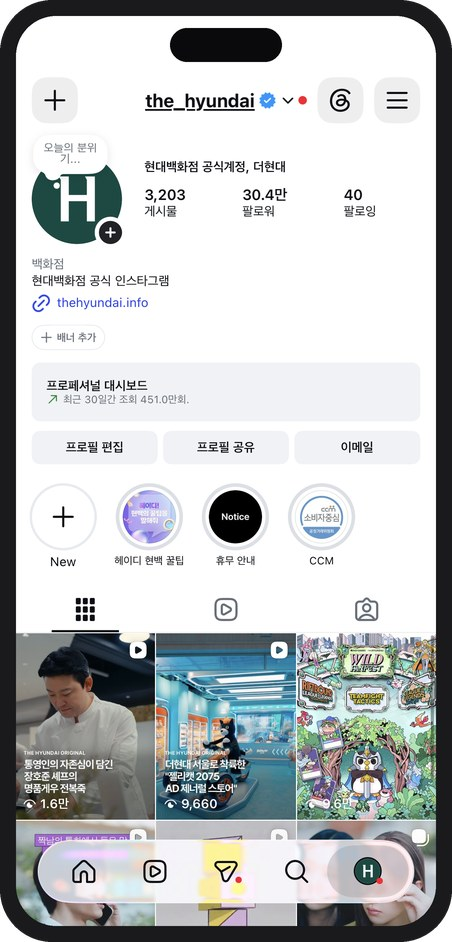
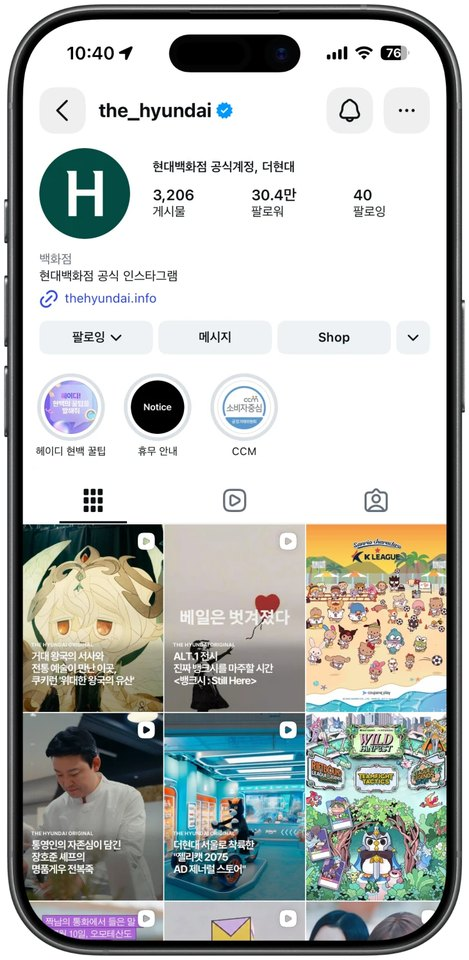
feat: 인스타 4계정 채널 목업 반영 — 공식 갱신 + 도시매뉴얼·에딧뎁트·와지트 신규
사용자 제공 아이폰 목업 4장을 흰 배경 합성·여백 트림·높이 960 통일로 최적화
(각 ~90-110KB). media.js 서브 계정 3종에 visual 한 줄씩 추가 — 우측 열 자동 배치.

Claude-Session: https://claude.ai/code/session_01W5oixKkCxd3dU1v4zre8Mn

diff --git a/src/data/media.js b/src/data/media.js
@@ -213,14 +213,17 @@ export const MEDIA = [
      "비고":"동일 소재 페이스북 미러링 · 필요시 도달·클릭 광고 집행 · 지점 계정과 콜랍스 공동게시(CO-WORK)"}},
   {group:"자사 매체", cat:"언드 미디어", name:"인스타그램 · 도시매뉴얼 (dosi.manual)", lead:"D-20", verified:true,
    target:"본사 운영 서브 콘텐츠 계정 — 도시·라이프스타일 큐레이션. 제작 규격은 대표계정과 동일.",
+   visual:"insta-dosimanual.jpg",
    slots:IG_SLOTS,
    extra:{"담당":"노규빈 선임 (정) · 정소미 선임 (부)","비고":"세부 지표·발행 라인업은 매체 모니터링 탭(본사 그룹) 참조"}},
   {group:"자사 매체", cat:"언드 미디어", name:"인스타그램 · 에딧뎁트 (edit.dept)", lead:"D-20", verified:true,
    target:"본사 운영 서브 콘텐츠 계정 — 에디토리얼·큐레이션. 제작 규격은 대표계정과 동일.",
+   visual:"insta-editdept.jpg",
    slots:IG_SLOTS,
    extra:{"담당":"노규빈 선임 (정) · 정소미 선임 (부)","비고":"세부 지표는 매체 모니터링 탭(본사 그룹) 참조"}},
   {group:"자사 매체", cat:"언드 미디어", name:"인스타그램 · 와지트 (wazit_wine)", lead:"별도 협의", verified:true,
    target:"와인 니치 콘텐츠 계정 — 소믈리에 화자. ※ 주류 콘텐츠 — 표현 검수 필수. 콘텐츠 개요는 아래 '와지트' 항목 참조.",
+   visual:"insta-wazit.jpg",
    slots:IG_SLOTS,
    extra:{"담당":"엄혜원 선임 (정) · 김상수 책임 (부)","금지사항":"주류 관련 표현·이미지 검수 필수 (brand-guard 기준)","비고":"인스타그램·스포티파이 동시 운영 · 세부 지표는 매체 모니터링 탭 참조"}},
   {group:"자사 매체", cat:"언드 미디어", name:"유튜브 (현대백화점 THE HYUNDAI)", lead:"D-30", verified:true,

diff --git a/CLAUDE.md b/CLAUDE.md
@@ -43,6 +43,8 @@
   목업)은 **본문 우측 열 고정 배치** ('26.7 레이아웃 변경 — 상단 통짜가 스펙을 밀어내
   사이니지 지면 카드와 같은 우측 배치로, 모바일은 본문 위 유지. 새 매체도 media.visual에
   파일명 한 줄이면 자동 우측). 자산 확보 시 파일 넣고 한 줄 지정.
+  인스타 4계정 목업 적용 완료('26.7.27 — 공식 갱신 + 도시매뉴얼·에딧뎁트·와지트,
+  insta-*.jpg. 사용자 제공 목업을 흰 배경 합성·트림·높이 960 통일).
   **언드 미디어 서브 계정 등재 ('26.7)**: 인스타 대표계정 외 도시매뉴얼(dosi.manual)·
   에딧뎁트(edit.dept)·와지트(wazit_wine), 유튜브 룸넘버·이야호(yiyaho_studio) 추가.
   제작 규격은 계정 무관 동일이라 `IG_SLOTS`/`YT_SLOTS` 상수 단일 소스로 재사용 —
